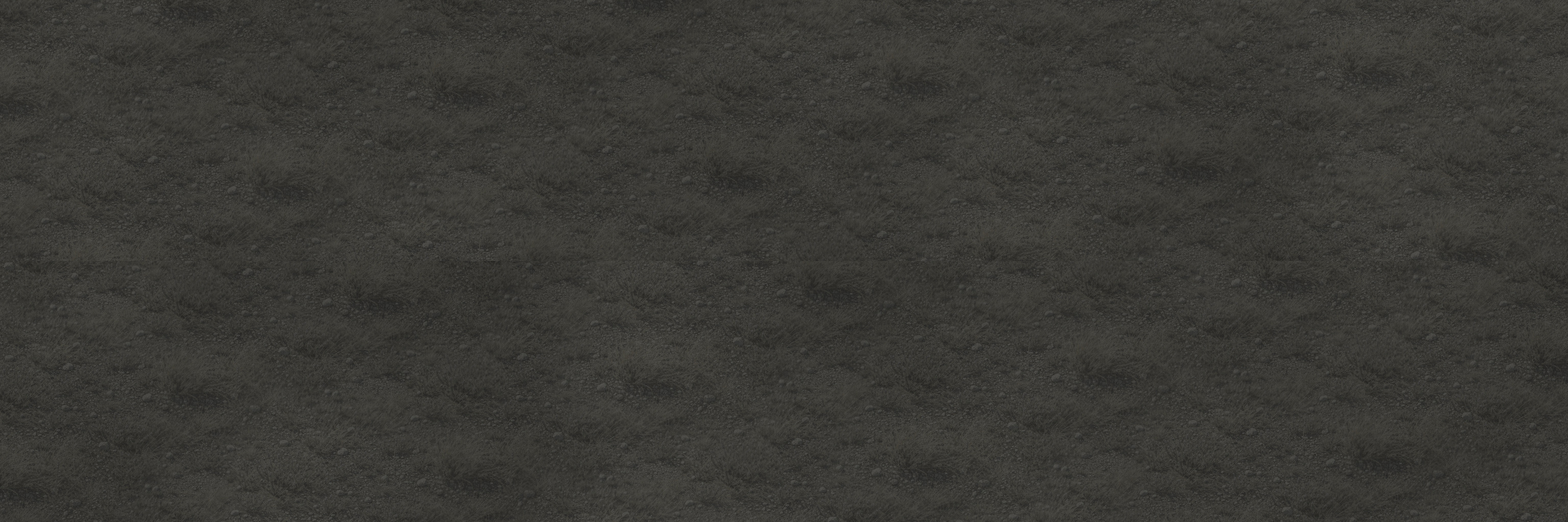
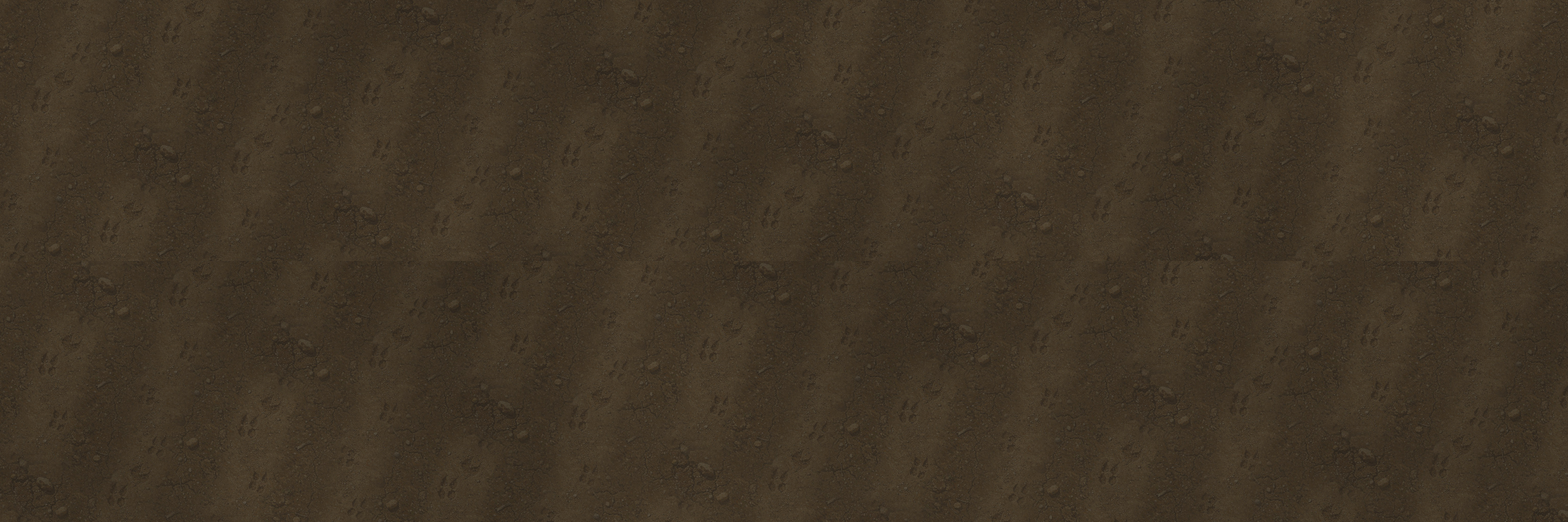
Cyclops: patchwork of green turf and bare dirt (two generated tiles mixed through noise, the arena worn to dirt), saturation restored; spec: colour where the board's story calls for it, hue not saturation to stay off the accent; genkit.patch_mix

Changed region(s): [[0.0, 0.0, 1.0, 1.0]]

diff --git a/Tools/Boards/recipes/cyclops.py b/Tools/Boards/recipes/cyclops.py
@@ -1,9 +1,9 @@
-"""Polyphemus' island: dry hillside ground of thin sun-dried grass, thyme and limestone grit (a generated tile), the
-arena trodden bare, scree at the foot of the hill. Back edge (3D): the rocky hillside rising out of frame, the black
+"""Polyphemus' island: a hillside pasture, a patchwork of green turf and bare trodden dirt (generated tiles), the
+arena worn mostly to dirt, scree at the foot of the hill. Back edge (3D): the rocky hillside rising out of frame, the black
 mouth of the giant's cave and the great boulder he rolls across it, lit only at the foot. Lanes: the same ground,
 packed calmer. (The giant's footprints and scattered boulders were dropped: seen from above they read as a map.)"""
 from boardkit import *  # noqa
-from genkit import tile, two_scale, norm_lum, tile_height, edge_fade, tile_lanes, falloff, RockFace, boulder
+from genkit import patch_mix, tile, two_scale, norm_lum, tile_height, edge_fade, tile_lanes, falloff, RockFace, boulder
 
 NAME = 'Cyclops'
 FOOT_Y = 34.8          # the hillside's foot (kept clear of the enemy portrait and its offerings)
@@ -18,15 +18,21 @@ def paint(preview=False):
     X, Y = g.X, g.Y
     ad = arena_dist(X, Y)
 
+    # a patchwork of green turf and bare trodden dirt: grass holds the margins, the arena is worn mostly to dirt
+    grass = tile('Cyclops_GrassTile.png')
+    dirt = tile('Cyclops_DirtTile.png')
     ground = tile('Cyclops_GroundTile.png')
-    alb = norm_lum(two_scale(n, ground, X, Y, 11.0) * C(0.95, 1.0, 0.82), 0.17)     # leaned olive: a pasture, not dirt
+    galb = norm_lum(two_scale(n, grass, X, Y, 7.0, offset=11), 0.165)
+    galb = lerp(galb, norm_lum(two_scale(n, ground, X, Y, 9.0, offset=12), 0.15), 0.3)    # dry tufts in the green
+    dalb = norm_lum(two_scale(n, dirt, X, Y, 8.0, offset=13, rot=(1.1, 2.9)) * C(0.9, 0.95, 1.05), 0.14)     # umber, off the accent
+    worn = 0.22 + 0.45 * smoothstep(8.0, -2.0, ad)
+    alb, bare = patch_mix(n, galb, dalb, X, Y, worn, scale=5.0, softness=0.1, offset=14)
     big = n.fbm(X, Y, 16, 4, offset=1)
-    alb = alb * (0.8 + 0.4 * big)[..., None]
-    hgt = (big * 0.3 + tile_height(alb, g, 0.1)).astype(F32)
-
-    # the arena trodden toward bare earth: muted, a little darker, the grass worn down
-    bare = smoothstep(3.0, -4.0, ad) * (0.55 + 0.35 * n.fbm(X, Y, 4, 3, offset=4))
-    alb = lerp(alb, desaturate(alb, 0.6) * 0.9, bare * 0.55)
+    alb = alb * (0.85 + 0.3 * big)[..., None]
+    hgt = (big * 0.3 + tile_height(alb, g, 0.1) + (1 - bare) * 0.05).astype(F32)
+    # the arena's grass and dirt calmed toward their mix so nothing busy sits under the cards
+    calm = smoothstep(4.0, -1.0, ad) * 0.35
+    alb = lerp(alb, blurf(alb.mean(-1), 0.5, g)[..., None] * (alb / np.maximum(alb.mean(-1, keepdims=True), 1e-3)), calm)
 
     # scree at the hill's foot, a narrow contact shadow, and the boulder's shadow
     alb = alb * (1 - smoothstep(FOOT_Y - 1.6, FOOT_Y, Y)[..., None] * 0.45)
@@ -43,8 +49,7 @@ def paint(preview=False):
     alb = alb * (1 - cav[..., None] * 0.3)
     smooth = np.full(X.shape, 0.1, F32)
 
-    lalb, lhgt, lsmooth = tile_lanes(n, lane, ground, size=11.0, mean=0.19, calm=0.45)
-    lalb = desaturate(lalb, 0.35)
+    lalb, lhgt, lsmooth = tile_lanes(n, lane, dirt * C(0.9, 0.95, 1.05), size=8.0, mean=0.17, calm=0.5)
 
     finish(os.path.join(OUT, NAME), NAME, g, alb, hgt, smooth, None, lane, lalb, lhgt, lsmooth, preview=preview)
     back_edge()

diff --git a/Tools/Boards/genkit.py b/Tools/Boards/genkit.py
@@ -271,3 +271,12 @@ class AshlarWall:
         em = a * em_k[..., None]
         a = a * am[..., None]
         return a.astype(F32), self.hgt, em.astype(F32), np.full(X.shape, 0.12, F32)
+
+
+def patch_mix(n, a, b, X, Y, amount, scale=6.0, softness=0.12, offset=21):
+    """Mixes two sampled tiles (a, b) in patches through noise: `amount` (a number or a per-pixel array, 0..1) is the
+    share of b. Returns (mix, mask)."""
+    f = n.fbm(X, Y, scale, 4, offset=offset)
+    thr = 1 - np.asarray(amount, F32)
+    m = smoothstep(thr - softness, thr + softness, f)
+    return lerp(a, b, m), m.astype(F32)

diff --git a/Tools/Boards/boardkit.py b/Tools/Boards/boardkit.py
@@ -194,7 +194,7 @@ GRADES = {
     'Trials': dict(value=0.78, sat=0.75),
     'Temple': dict(value=0.48, sat=0.85),
     'Labyrinth': dict(value=0.78, sat=0.8),
-    'Cyclops': dict(value=0.74, sat=0.75),
+    'Cyclops': dict(value=0.78, sat=1.0),
     'Bacchanalia': dict(value=0.8, sat=0.5, tint=(0.92, 1.0, 0.78), tint_amt=0.4),
 }
 

diff --git a/Docs/StyleGuide.md b/Docs/StyleGuide.md
@@ -99,8 +99,8 @@ The game is dark and grand, and the board must never compete with what the playe
 3. **Value.** In-frame luminance of the gap is about 0.08–0.20 (the liked boards sit at 0.12–0.16; Delphi at 0.33 and Trials at 0.32 read too bright as a whole). Margins are ≤ ~0.12. The top 3% of the frame (middle half of its width) is ≤ ~0.025: every combat board fades to black at the top the same way. Cards average ~0.47, so the board stays well below them: dark and grand comes from the board receding.
 4. **Colour.**
    - One dominant hue family per board; this is the encounter's identity.
-   - Saturation scales with brightness: a mid-value ground stays muted (gap saturation ≤ ~0.40 when its luminance is above ~0.18; darker grounds can carry more). Troy and Trials break this rule: sat 0.6 at luminance 0.22–0.32.
-   - Earth grounds go umber, olive or grey, never the terracotta orange of the pottery and the buttons. That orange is the accent hue, and a ground in it swallows the frames.
+   - Saturation scales with brightness: a mid-value ground stays muted (gap saturation ≤ ~0.40 when its luminance is above ~0.18; darker grounds can carry more). Don't drain colour by reflex: a board whose story is colour (Bacchanalia's summer excess, Cyclops' pasture) should carry it, mostly in the margins, with the arena calmer so the cards still lead. Keep greens under the lanes olive or yellow-green, so the bright green glow on playable cards still stands out.
+   - Earth grounds go umber, olive or grey, never the terracotta orange of the pottery and the buttons. That orange is the accent hue, and a ground in it swallows the frames. Move a ground off it by changing its hue (toward green, olive or umber), not by draining its saturation.
    - Accents (blood, embers, gold, wine) are small, deliberate and matte.
 5. **Props.** Few, large, dark, and sitting in the surface: half-buried, in the ground's value family, with a contact shadow. No small bright isolated objects. Bones, shields, statues and bright leaves all proved distracting. Leaf litter in the ground's own value (Hunt) is fine.
 6. **Materials.** Matte (smoothness ≤ ~0.35). Wet or polished looks only at low contrast; no glossy liquids (Archiereus' blood reads too glossy).
